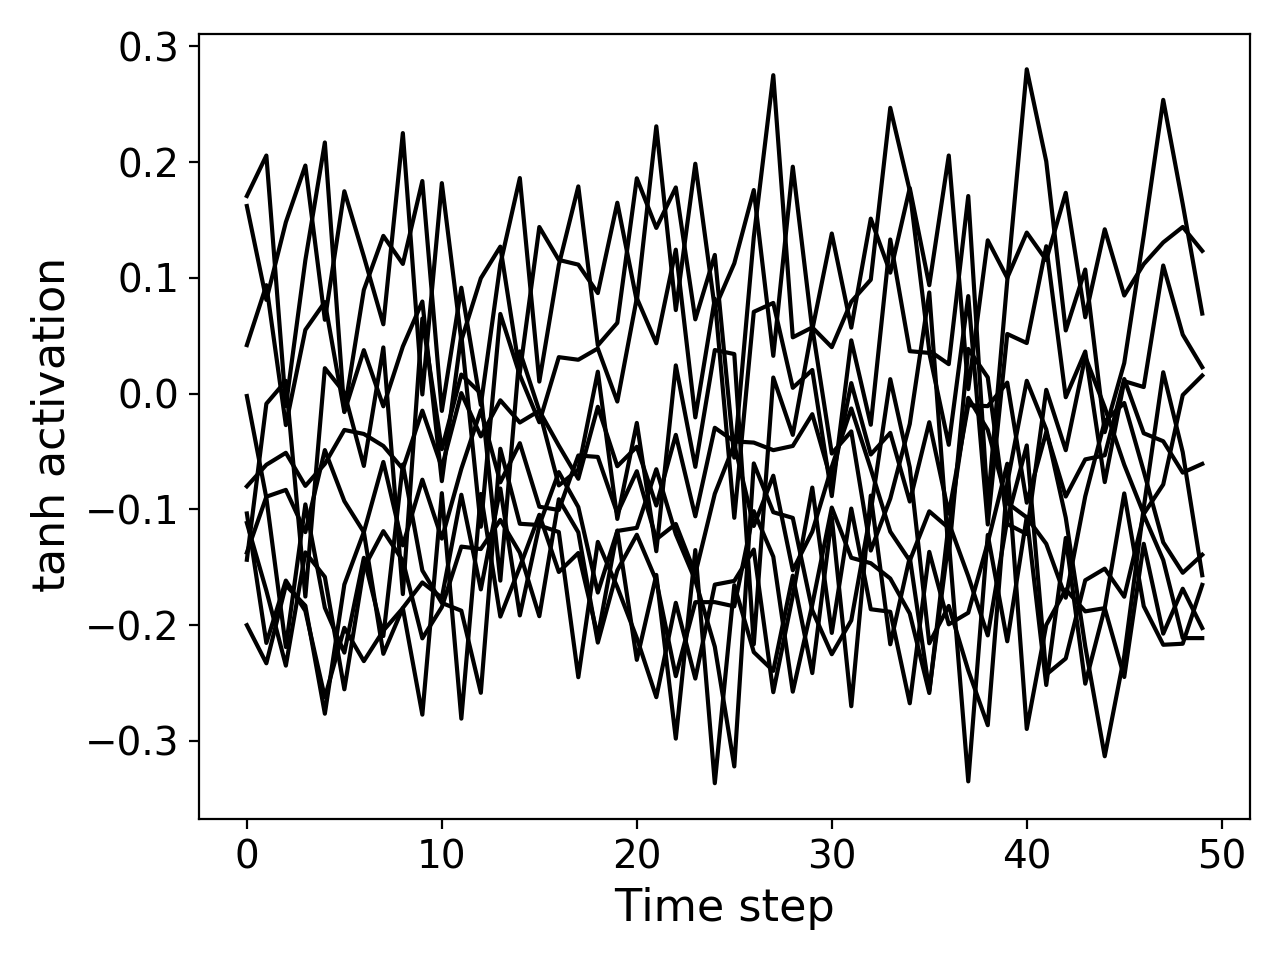
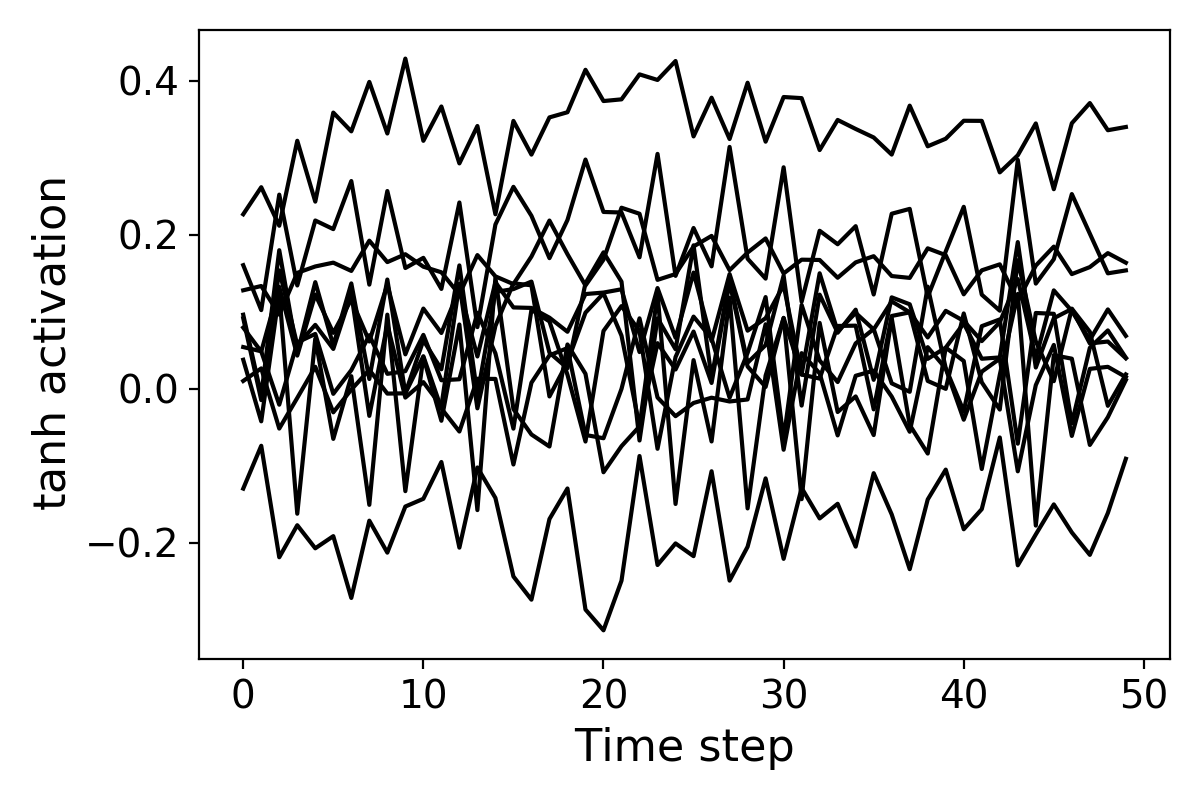
A few thoughts.

Changed region(s): [[0.0308, 0.0312, 0.9867, 0.9688]]

diff --git a/master/sections/4-experiment-b.tex b/master/sections/4-experiment-b.tex
@@ -274,8 +274,17 @@ visible, while the ESN is sporadic, random.
 \end{figure*}
 
 \textcolor{red}{
+  After looking at the activations here, all positive, one may consider other
+sigmoid functions of course, but experiments showed $tanh$ to work just fine.
+}
+
+\textcolor{red}{
   We should maybe also compare MC and KQ/G to that of ESNs, as independent
-metrics.
+metrics. We see that the square grids have a much lower kernel quality,
+i.e. less dynamics, which may impact performance. However, some studies with
+Mackey-Glass indicate that it will also work for that. So there is this
+trade-off to make the square grid work, in that the dynamics are lessened for
+memory, but it \textit{works}, which is the key.
 }
 
 \textcolor{red}{

diff --git a/master/sections/5-conclusion.tex b/master/sections/5-conclusion.tex
@@ -43,6 +43,11 @@ relevant.
 investigating?
 }
 
+\textcolor{red}{
+  If one wants to determine if square grids is comparable to ESNs, more
+benchmarks are needed. We just studied whether they are usable at all.
+}
+
 %%% Local Variables:
 %%% mode: latex
 %%% TeX-master: "../thesis"
